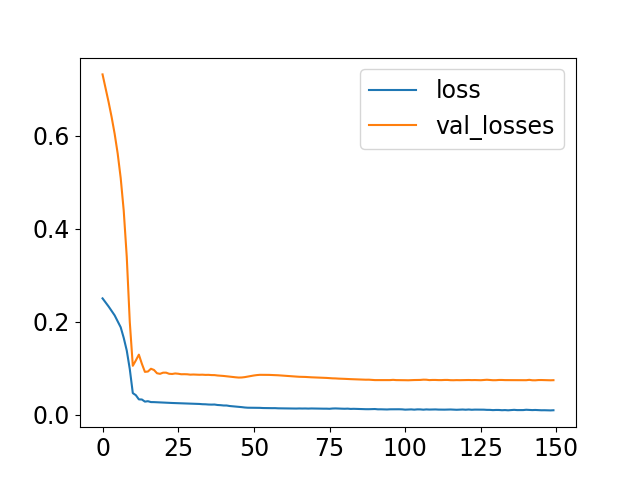
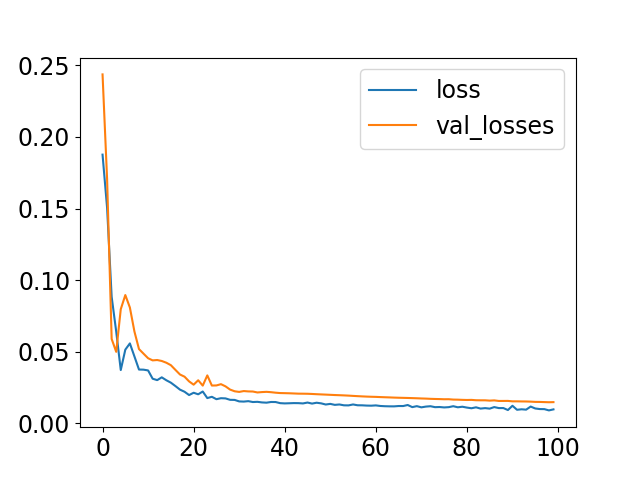
调参 固定初始化参数 统一标准mae

diff --git a/LSTM_encoder_decoder/code/lstm_encoder_decoder.py b/LSTM_encoder_decoder/code/lstm_encoder_decoder.py
@@ -33,6 +33,7 @@ class lstm_encoder(nn.Module):
         self.lstm = nn.LSTM(input_size = input_size, hidden_size = hidden_size,
                             num_layers = num_layers)
 
+        self.apply(self._init_weights)
     def forward(self, x_input):
         
         '''
@@ -57,6 +58,11 @@ class lstm_encoder(nn.Module):
         return (torch.zeros(self.num_layers, batch_size, self.hidden_size),
                 torch.zeros(self.num_layers, batch_size, self.hidden_size))
 
+    def _init_weights(self, module):
+        if isinstance(module, nn.Linear):
+            module.weight.data.normal_(mean=0.0, std=1.0)
+            if module.bias is not None:
+                module.bias.data.zero_()
 
 class lstm_decoder(nn.Module):
     ''' Decodes hidden state output by encoder '''
@@ -110,8 +116,8 @@ class lstm_seq2seq(nn.Module):
         self.input_size = input_size
         self.hidden_size = hidden_size
 
-        self.encoder = lstm_encoder(input_size = input_size, hidden_size = hidden_size)
-        self.decoder = lstm_decoder(input_size = input_size, hidden_size = hidden_size)
+        self.encoder = lstm_encoder(input_size = input_size, hidden_size = hidden_size,num_layers=2)
+        self.decoder = lstm_decoder(input_size = input_size, hidden_size = hidden_size,num_layers=2)
 
 
     def train_model(self, input_tensor, target_tensor, n_epochs, target_len, batch_size, training_prediction = 'recursive', teacher_forcing_ratio = 0.5, learning_rate = 0.01, dynamic_tf = False):
@@ -141,7 +147,7 @@ class lstm_seq2seq(nn.Module):
         losses = np.full(n_epochs, np.nan)
 
         optimizer = optim.Adam(self.parameters(), lr = learning_rate)
-        criterion = nn.MSELoss()
+        criterion = nn.L1Loss()
 
         # calculate number of batch iterations
         n_batches = int(input_tensor.shape[1] / batch_size)

diff --git a/LSTM_encoder_decoder/code/example.py b/LSTM_encoder_decoder/code/example.py
@@ -55,8 +55,8 @@ plt.savefig('plots/train_test_split.png')
 # window dataset
 
 # set size of input/output windows 
-iw = 50
-ow = 15
+iw = 320
+ow = 80
 s = 5
 
 # generate windowed training/test datasets
@@ -85,8 +85,8 @@ plt.savefig('plots/windowed_data.png')
 X_train, Y_train, X_test, Y_test = generate_dataset.numpy_to_torch(Xtrain, Ytrain, Xtest, Ytest)
 
 # specify model parameters and train
-model = lstm_encoder_decoder.lstm_seq2seq(input_size = X_train.shape[2], hidden_size = 256)
-loss,val_losses = model.train_model(X_train, Y_train, n_epochs = 150, target_len = ow, batch_size = 512, training_prediction = 'mixed_teacher_forcing', teacher_forcing_ratio = 0.6, learning_rate = 0.0005, dynamic_tf = False)
+model = lstm_encoder_decoder.lstm_seq2seq(input_size = X_train.shape[2], hidden_size = 128)
+loss,val_losses = model.train_model(X_train, Y_train, n_epochs = 80, target_len = ow, batch_size = 128, training_prediction = 'mixed_teacher_forcing', teacher_forcing_ratio = 0.6, learning_rate = 0.005, dynamic_tf = False)
 
 plt.plot(loss,label="loss")
 plt.plot(val_losses,label="val_losses")
